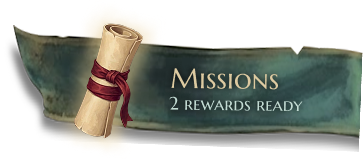
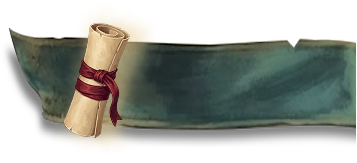
up

diff --git a/Hextale_0.73.56.html b/Hextale_0.73.56.html
@@ -5418,20 +5418,20 @@ body.human-light #p2-info .player-name span{ color:#FBF0D7; }
    del gioco: qui non si usano mai vw/vh. */
 #main-menu{
   /* Il libro: quanto e' largo e dove sta. Da qui dipende tutto il resto. */
-  --libro-larghezza:1500px;
-  --libro-alto:14%;      /* distanza dal bordo alto del canvas */
+  --libro-larghezza:1560px;
+  --libro-alto:8%;      /* distanza dal bordo alto del canvas */
   /* Pagina sinistra */
-  --banner-x:36.5%;  --banner-y:6%;    --banner-scala:0.62;
-  --azioni-x:36.5%;  --azioni-y:50%;   --azioni-larghezza:255px; --azioni-passo:57px;
+  --banner-x:27.5%;  --banner-y:4%;    --banner-scala:0.8;
+  --azioni-x:28.5%;  --azioni-y:50%;   --azioni-larghezza:275px; --azioni-passo:57px;
   /* Pagina destra */
-  --quick-x:65%;     --quick-y:11%;
-  --griglia-x:53.6%; --griglia-y:15.5%;
-  --patch-x:53.6%;   --patch-y:55%;    --patch-larghezza:500px;
+  --quick-x:63%;     --quick-y:11%;
+  --griglia-x:49.6%; --griglia-y:15.5%;
+  --patch-x:48%;   --patch-y:60%;    --patch-larghezza:440px;
   /* I segnalibri che escono dal taglio delle pagine, volutamente sfalsati */
-  --segna-store-x:0.5%;    --segna-store-y:44%;
-  --segna-missioni-x:-1%;  --segna-missioni-y:54%;
-  --segna-packs-x:1.5%;    --segna-packs-y:64%;
-  --segnalibro-scala:0.78;
+  --segna-store-x:-8%;    --segna-store-y:36%;
+  --segna-missioni-x:-11%;  --segna-missioni-y:61%;
+  --segna-packs-x:-7.5%;    --segna-packs-y:74%;
+  --segnalibro-scala:0.8;
 
   position:fixed; inset:0; z-index:290;
   overflow:hidden;
@@ -5451,7 +5451,7 @@ body.human-light #p2-info .player-name span{ color:#FBF0D7; }
    luce vera e non due dischi appoggiati sopra allo sfondo. */
 .mm-radial{
   position:absolute; left:50%; top:50%;
-  width:120%; height:120%;
+  width:250%; height:250%;
   object-fit:contain;
   transform-origin:center center;
   mix-blend-mode:plus-lighter;
@@ -5479,6 +5479,9 @@ body.human-light #p2-info .player-name span{ color:#FBF0D7; }
    fine. Cambiare l'inclinazione e' cambiare un numero solo. */
 #mm-book-rot{
   position:absolute; inset:0;
+  /* Il libro non e' centrato sullo schermo: lascia respiro a sinistra ai
+     segnalibri, che sporgono oltre il suo bordo. */
+  left:8%;
   transform:rotate(-3deg);
   transform-origin:center center;
   pointer-events:none;   /* i figli se la riprendono: vedi .mm-clic */
@@ -5496,8 +5499,8 @@ body.human-light #p2-info .player-name span{ color:#FBF0D7; }
 /* Il bagliore del libro: stessa posizione e stessa misura del libro, quindi
    non puo' disallinearsi. Respira molto lentamente in trasparenza. */
 #mm-book-glow{
-  position:absolute; left:50%; top:50%;
-  width:104%; height:auto;
+  position:absolute; left:48%; top:50%;
+  width:110%; height:auto;
   transform:translate(-50%,-50%);
   mix-blend-mode:plus-lighter;
   pointer-events:none; user-select:none; -webkit-user-drag:none;
@@ -5511,33 +5514,70 @@ body.human-light #p2-info .player-name span{ color:#FBF0D7; }
    perche' il gruppo che ruota li ha spenti (vedi sopra): senza, il rettangolo
    invisibile del gruppo intercetterebbe i click destinati a cio' che sta
    sotto, valute comprese. */
+/* v0.73.55 FIX ("sembra che tu abbia cambiato il font"). Questa classe
+   azzerava anche `font`, `color`, `background`, `border` e `padding`. Su un
+   <button> nudo serviva; su .start-art-btn no — e siccome e' dichiarata DOPO,
+   a parita' di specificita' vinceva lei e cancellava il carattere, il colore
+   e la grafica dei pulsanti veri. Adesso fa solo il suo mestiere: rendere
+   cliccabile cio' che sta dentro al gruppo che ruota (li' i click sono spenti,
+   vedi #mm-book-rot). Chi ha bisogno di un <button> senza vestiti se lo toglie
+   per conto proprio: .mm-nudo. */
 .mm-clic{
   pointer-events:auto;
   cursor:var(--cursore);
+}
+.mm-nudo{
   background:none; border:0; padding:0; margin:0;
   font:inherit; color:inherit;
 }
-.mm-clic:disabled{ cursor:var(--cursore); }
 
 /* ── I SEGNALIBRI ─────────────────────────────────────────────────────────
    Escono dal taglio delle pagine sul lato sinistro. Le tre X sono diverse
    apposta: allineati sarebbero tre linguette stampate, sfalsati sono tre
    segnalibri infilati da una mano. */
+/* v0.73.54 — IL SEGNALIBRO SI SFILA, NON SI STACCA.
+   Prima il pulsante intero scorreva: si vedeva un oggetto separato che si
+   spostava accanto al libro, e la coda destra si portava via il suo bordo
+   netto. Un segnalibro vero non ha una coda: sparisce fra le pagine.
+   Il pezzo che mancava e' il TAGLIO. Il pulsante e' adesso una finestrella
+   ferma, larga quanto la parte che si deve vedere, con `overflow:hidden`: il
+   disegno ci scorre dentro. Il suo bordo destro e' quindi una linea FISSA,
+   ancorata alla pagina, e il disegno la attraversa sparendo — non finisce, va
+   sotto. E' la stessa illusione di una lettera infilata in una busta.
+   `--sotto` e' quanta parte del disegno resta nascosta a riposo: e' il
+   margine di manovra dello scorrimento, quindi deve essere piu' grande di
+   `--sfilo`, o all'uscita il bordo destro tornerebbe visibile e l'illusione
+   crollerebbe di colpo. */
 .mm-bookmark{
+  --sotto:38px;   /* quanto disegno resta sotto la pagina */
+  --sfilo:14px;   /* di quanto esce al passaggio del puntatore */
   position:absolute;
-  transform-origin:left center;
-  transition:transform .16s ease-out, filter .16s ease-out;
+  overflow:hidden;
+  transition:filter .16s ease-out;
   filter:drop-shadow(0 6px 14px rgba(0,0,0,0.45));
 }
 .mm-bookmark img{
-  display:block; width:100%; height:auto;
+  display:block; height:auto;
+  /* Largo quanto il pulsante e spostato a destra di `--sotto`: quel tanto
+     esce dalla finestrella e viene tagliato via. */
+  position:relative; left:var(--sotto); width:100%;
+  transition:transform .16s ease-out;
   pointer-events:none; user-select:none; -webkit-user-drag:none;
 }
-/* All'hover esce di un soffio, come se lo si stesse sfilando. */
-.mm-bookmark:hover{ transform:translateX(-10px); filter:drop-shadow(0 8px 18px rgba(0,0,0,0.55)) brightness(1.06); }
+/* All'hover il disegno scorre DENTRO la finestrella, che resta ferma: e'
+   questo a farlo leggere come "si sta sfilando" invece che "si sta
+   allontanando". */
+.mm-bookmark:hover img{ transform:translateX(calc(var(--sfilo) * -1)); }
+.mm-bookmark:hover{ filter:drop-shadow(0 8px 18px rgba(0,0,0,0.55)) brightness(1.06); }
 #mm-store{    left:var(--segna-store-x);    top:var(--segna-store-y);    width:calc(325px * var(--segnalibro-scala)); }
 #mm-missions{ left:var(--segna-missioni-x); top:var(--segna-missioni-y); width:calc(351px * var(--segnalibro-scala)); }
 #mm-packs{    left:var(--segna-packs-x);    top:var(--segna-packs-y);    width:calc(296px * var(--segnalibro-scala)); }
+/* Lo Store non e' ancora aperto: si vede che c'e', ma sbiadito, e non
+   risponde. Niente hover, perche' un oggetto che reagisce promette di
+   funzionare. */
+#mm-store{ opacity:0.2; }
+#mm-store:hover{ filter:drop-shadow(0 6px 14px rgba(0,0,0,0.45)); }
+#mm-store:hover img{ transform:none; }
 
 /* ── PAGINA SINISTRA: il giocatore ────────────────────────────────────────
    Stesso impianto del banner in partita (sfondo, targa col nome, avatar
@@ -5646,7 +5686,7 @@ body.human-light #p2-info .player-name span{ color:#FBF0D7; }
    pulsante piu' — cosi' l'unica differenza dichiarata e' quella vera: il
    colore del numero. */
 #mm-currencies{
-  position:absolute; right:40px; bottom:26px;
+  position:absolute; right:40px; bottom:40px;
   display:flex; align-items:center; gap:26px;
 }
 .mm-cur{
@@ -5658,18 +5698,30 @@ body.human-light #p2-info .player-name span{ color:#FBF0D7; }
   position:absolute; inset:0; width:100%; height:100%;
   pointer-events:none; user-select:none; -webkit-user-drag:none;
 }
+/* Le due icone hanno la stessa misura ma non lo stesso posto: sono due
+   disegni diversi, con la propria aria attorno, e allinearli a occhio uno per
+   uno e' l'unico modo perche' sembrino centrati nel loro riquadro. Le
+   differenze stanno tutte nelle due regole qui sotto. */
 .mm-cur-icon{
-  position:absolute; left:-14px; top:50%;
+  position:absolute; top:50%;
   transform:translateY(-50%);
-  height:66px; width:auto;
+  height:106px; width:auto;
   pointer-events:none; user-select:none; -webkit-user-drag:none;
   filter:drop-shadow(0 4px 10px rgba(0,0,0,0.45));
 }
+#mm-ink .mm-cur-icon{  left:-55px; }
+#mm-dust .mm-cur-icon{ left:-5px; top:54%; }
 .mm-cur-value{
-  position:absolute; left:74px; right:56px; top:50%;
+  /* Ancorato SOLO a destra: il numero cresce verso sinistra man mano che le
+     cifre aumentano, e la sua ultima cifra resta sempre alla stessa distanza
+     dal pulsante piu'. Con anche `left` scritto, il riquadro sarebbe stato
+     largo fisso e il numero centrato dentro: passando da 300 a 14000 si
+     sarebbe spostato tutto, e i due wrapper non si sarebbero mai allineati
+     fra loro. */
+  position:absolute; right:56px; top:50%;
   transform:translateY(-50%);
   font-family:var(--font-display, serif);
-  font-size:30px; line-height:1; text-align:center;
+  font-size:30px; font-weight:700; line-height:1; text-align:right;
   color:#F4E9D7;
   /* Richiesto: ombra nera al 50%, sfocata 15px. `drop-shadow` e non
      `text-shadow` perche' l'oro della fairy dust e' un gradiente ritagliato
@@ -5882,9 +5934,9 @@ body.human-light #p2-info .player-name span{ color:#FBF0D7; }
       <img id="mm-book-glow" alt="" draggable="false">
 
       <!-- I segnalibri che escono dal taglio delle pagine -->
-      <button class="mm-clic mm-bookmark" id="mm-store" onclick="mmApriStore()" aria-label="Store"><img alt="" draggable="false"></button>
-      <button class="mm-clic mm-bookmark" id="mm-missions" onclick="mmApriMissioni()" aria-label="Missions"><img alt="" draggable="false"></button>
-      <button class="mm-clic mm-bookmark" id="mm-packs" onclick="openPackOverlay()" aria-label="Book Packs"><img alt="" draggable="false"></button>
+      <button class="mm-clic mm-nudo mm-bookmark" id="mm-store" aria-label="Store" disabled><img alt="" draggable="false"></button>
+      <button class="mm-clic mm-nudo mm-bookmark" id="mm-missions" onclick="mmApriMissioni()" aria-label="Missions"><img alt="" draggable="false"></button>
+      <button class="mm-clic mm-nudo mm-bookmark" id="mm-packs" onclick="openPackOverlay()" aria-label="Book Packs"><img alt="" draggable="false"></button>
 
       <!-- Pagina sinistra: il giocatore -->
       <div id="mm-player">
@@ -5898,13 +5950,13 @@ body.human-light #p2-info .player-name span{ color:#FBF0D7; }
 
       <!-- Pagina sinistra: i tre comandi -->
       <div id="mm-actions">
-        <button class="mm-clic start-art-btn sab-secondary" onclick="mmApriSceltaPartita()">
+        <button class="mm-clic start-art-btn sab-primary" onclick="mmApriSceltaPartita()">
           <span class="sab-caps"></span><span class="sab-fill-l"></span><span class="sab-center"></span><span class="sab-fill-r"></span><span class="sab-noise"></span><span class="sab-label">Start Game</span>
         </button>
-        <button class="mm-clic start-art-btn sab-secondary mm-inerte" disabled>
+        <button class="mm-clic start-art-btn sab-primary mm-inerte" disabled>
           <span class="sab-caps"></span><span class="sab-fill-l"></span><span class="sab-center"></span><span class="sab-fill-r"></span><span class="sab-noise"></span><span class="sab-label">Edit Decks</span>
         </button>
-        <button class="mm-clic start-art-btn sab-secondary" onclick="openCardDbOverlay()">
+        <button class="mm-clic start-art-btn sab-primary" onclick="openCardDbOverlay()">
           <span class="sab-caps"></span><span class="sab-fill-l"></span><span class="sab-center"></span><span class="sab-fill-r"></span><span class="sab-noise"></span><span class="sab-label">Collection</span>
         </button>
       </div>
@@ -5912,7 +5964,7 @@ body.human-light #p2-info .player-name span{ color:#FBF0D7; }
       <!-- Pagina destra -->
       <div id="mm-quick-title">Quick decks</div>
       <div id="mm-quick-grid" aria-label="Quick decks"></div>
-      <button class="mm-clic" id="mm-patch" onclick="apriPatchNotesDalMenu()" aria-label="Patch notes">
+      <button class="mm-clic mm-nudo" id="mm-patch" onclick="apriPatchNotesDalMenu()" aria-label="Patch notes">
         <img alt="" draggable="false">
         <span id="mm-patch-label">Patch Notes</span>
       </button>
@@ -6219,7 +6271,7 @@ body.human-light #p2-info .player-name span{ color:#FBF0D7; }
      startGame(true) when #app isn't already showing a live game (checked
      via #app's own display style) so an accidental click mid-game can't
      silently blow away the current match. -->
-<div id="build-version-badge" onclick="openDebugModal()" style="position:fixed;bottom:14px;left:50%;transform:translateX(-50%);z-index:301;font-family:'Marcellus SC','Marcellus',serif;font-size:20px;color:#fff;opacity:0.2;pointer-events:auto;user-select:none;cursor:var(--cursore);">v0.73.53</div>
+<div id="build-version-badge" onclick="openDebugModal()" style="position:fixed;bottom:14px;left:50%;transform:translateX(-50%);z-index:301;font-family:'Marcellus SC','Marcellus',serif;font-size:20px;color:#fff;opacity:0.2;pointer-events:auto;user-select:none;cursor:var(--cursore);">v0.73.56</div>
 <button id="settings-btn" onclick="openSettingsModal()" aria-label="Impostazioni"><img src="https://thetrickmaster.github.io/hextale/player-ui/settings-button.png" alt="" draggable="false"></button>
 <!-- v0.72.18 ("quando si clicca su inizia nuova partita... voglio che appaia
      un popup che ti chiede se vuoi iniziare la partita come giocatore Dark o
@@ -8330,10 +8382,11 @@ function mmAvviaPartita(controIA){
   mmChiudiSceltaPartita();
   requestNewGame(!!controIA);
 }
-// Store e Missions non esistono ancora. Restano agganciati a una funzione
-// invece che a niente: il giorno in cui esisteranno, si scrive qui dentro e
-// non si va a cercare i tre pulsanti nel markup.
-function mmApriStore(){}
+// Missions non esiste ancora. Resta agganciato a una funzione invece che a
+// niente: il giorno in cui esistera', si scrive qui dentro e non si va a
+// cercare il pulsante nel markup.
+// Lo Store e' proprio spento (`disabled` nel markup, e sbiadito al 20%): non
+// e' "da scrivere", e' "non ancora aperto", ed e' giusto che si veda.
 function mmApriMissioni(){}
 
 // ── v0.73.53 — DA DOVE SI ERA ARRIVATI ─────────────────────────────────────
